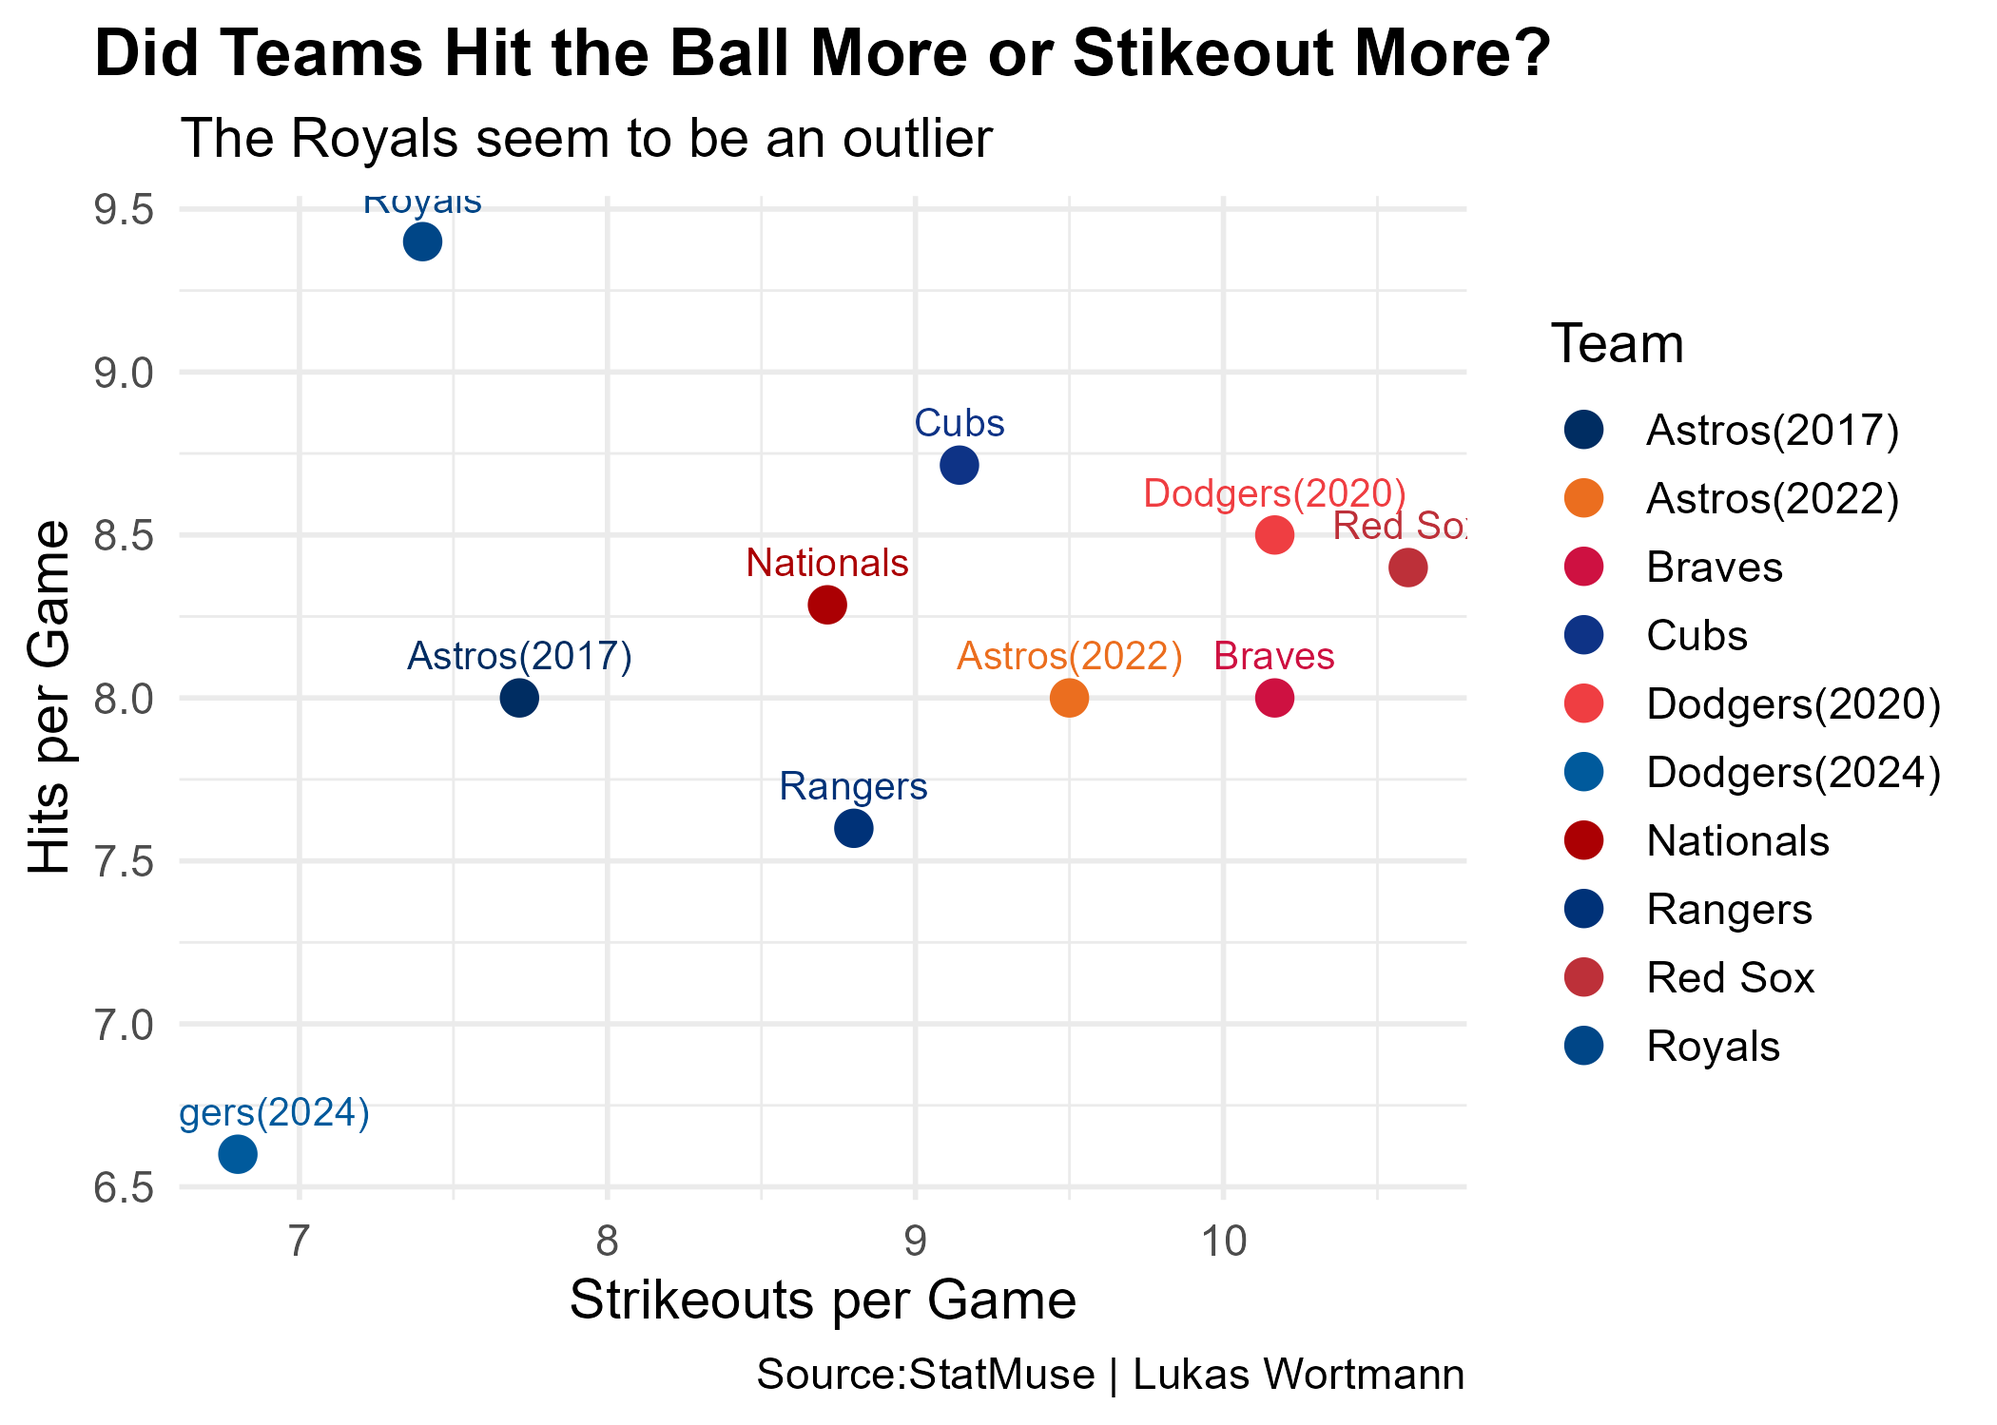
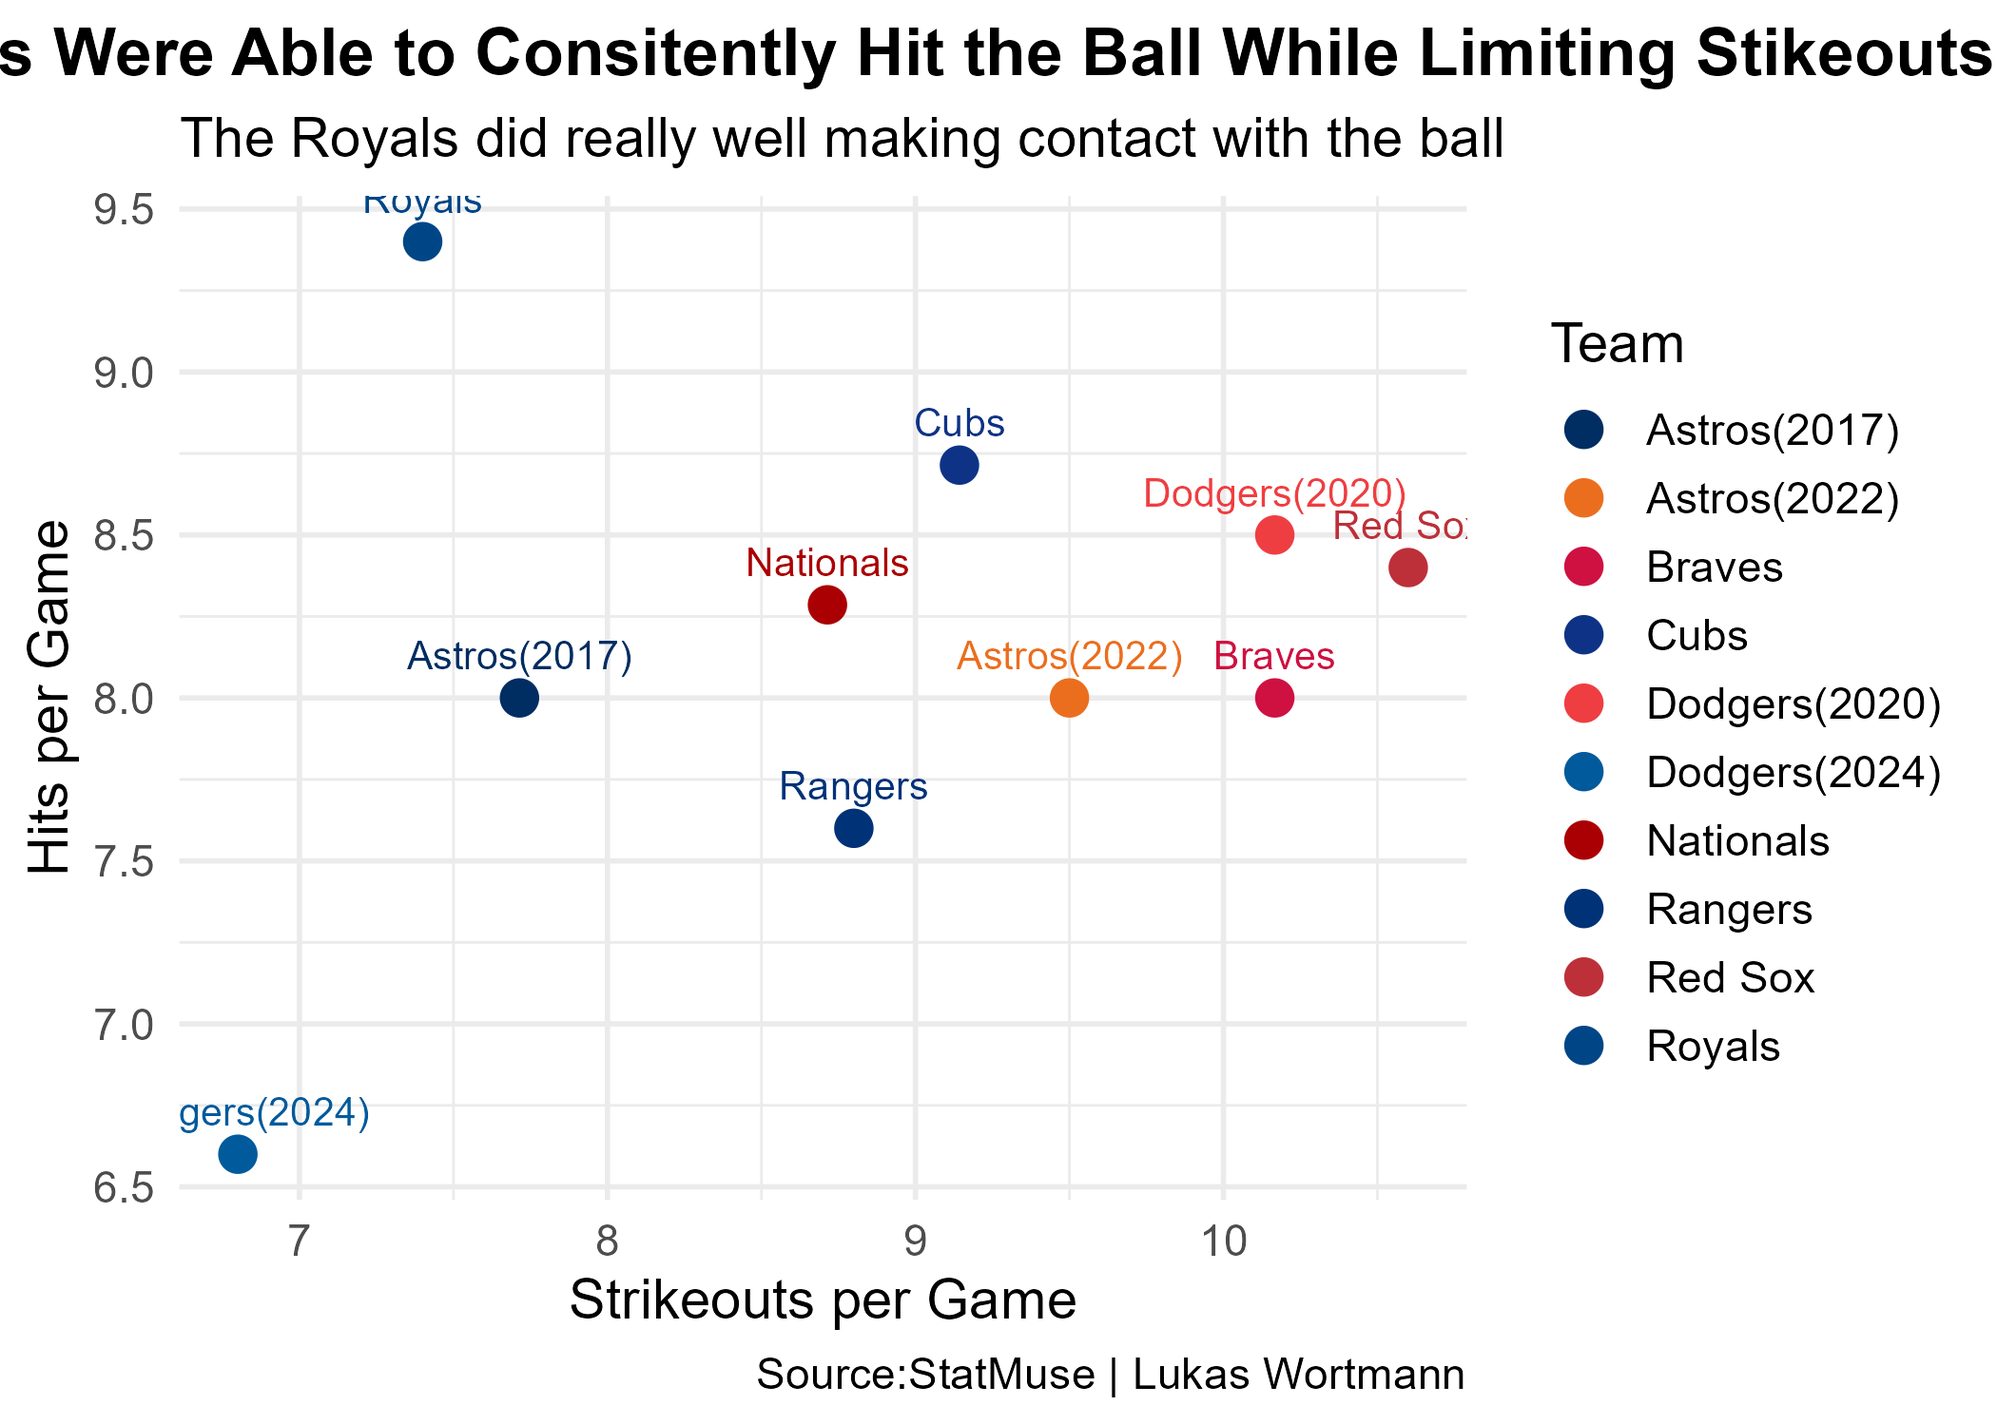
commit

Changed region(s): [[0.0, 0.0, 1.0, 0.1227]]

diff --git a/posts/worldserieswinners/index.html b/posts/worldserieswinners/index.html
@@ -9,7 +9,7 @@
 <meta name="author" content="Lukas Wortmann">
 <meta name="dcterms.date" content="2025-05-03">
 
-<title>Which Team had the best World Series Preformace? – Lukas’s sports blog</title>
+<title>Which of the last 10 Worlds Series Winner Had the Best Performace? – Lukas’s sports blog</title>
 <style>
 code{white-space: pre-wrap;}
 span.smallcaps{font-variant: small-caps;}
@@ -149,7 +149,7 @@ pre > code.sourceCode > span > a:first-child::before { text-decoration: underlin
 <header id="title-block-header" class="quarto-title-block default page-columns page-full">
   <div class="quarto-title-banner page-columns page-full">
     <div class="quarto-title column-body">
-      <h1 class="title">Which Team had the best World Series Preformace?</h1>
+      <h1 class="title">Which of the last 10 Worlds Series Winner Had the Best Performace?</h1>
                                 <div class="quarto-categories">
                 <div class="quarto-category">Baseball</div>
                 <div class="quarto-category">MLB</div>
@@ -192,6 +192,8 @@ pre > code.sourceCode > span > a:first-child::before { text-decoration: underlin
 
 
 
+<p>Baseball has been a sport that has been my favorite since forever. Growing up out of all of my favorite sports teams to this day the only team I have ever seen win a championship was the Kansas City Royals when they won the 2015 World Series. I have always asked my self what would happen if two champions from different years were to play each other? What would happen?</p>
+<p>This Blog is going to ask the question, Which of the last 10 World Series winners had the best Performance? We will start by asking which teams were able to hit the ball well but also were able to limit their amount of strikeouts?</p>
 <div class="cell">
 <details class="code-fold">
 <summary>Code</summary>
@@ -224,8 +226,8 @@ pre > code.sourceCode > span > a:first-child::before { text-decoration: underlin
 <span id="cb1-27"><a href="#cb1-27" aria-hidden="true" tabindex="-1"></a>  <span class="fu">scale_color_manual</span>(<span class="at">values =</span> team_colors) <span class="sc">+</span></span>
 <span id="cb1-28"><a href="#cb1-28" aria-hidden="true" tabindex="-1"></a>  <span class="fu">theme_minimal</span>(<span class="at">base_size =</span> <span class="dv">14</span>) <span class="sc">+</span></span>
 <span id="cb1-29"><a href="#cb1-29" aria-hidden="true" tabindex="-1"></a>  <span class="fu">labs</span>(</span>
-<span id="cb1-30"><a href="#cb1-30" aria-hidden="true" tabindex="-1"></a>    <span class="at">title =</span> <span class="st">"Did Teams Hit the Ball More or Stikeout More?"</span>,</span>
-<span id="cb1-31"><a href="#cb1-31" aria-hidden="true" tabindex="-1"></a>    <span class="at">subtitle =</span> <span class="st">"The Royals seem to be an outlier"</span>,</span>
+<span id="cb1-30"><a href="#cb1-30" aria-hidden="true" tabindex="-1"></a>    <span class="at">title =</span> <span class="st">"Which Teams Were Able to Consitently Hit the Ball While Limiting Stikeouts?"</span>,</span>
+<span id="cb1-31"><a href="#cb1-31" aria-hidden="true" tabindex="-1"></a>    <span class="at">subtitle =</span> <span class="st">"The Royals did really well making contact with the ball"</span>,</span>
 <span id="cb1-32"><a href="#cb1-32" aria-hidden="true" tabindex="-1"></a>    <span class="at">x =</span> <span class="st">"Strikeouts per Game"</span>,</span>
 <span id="cb1-33"><a href="#cb1-33" aria-hidden="true" tabindex="-1"></a>    <span class="at">y =</span> <span class="st">"Hits per Game"</span>,</span>
 <span id="cb1-34"><a href="#cb1-34" aria-hidden="true" tabindex="-1"></a>    <span class="at">caption =</span> <span class="st">"Source:StatMuse | Lukas Wortmann"</span>,</span>
@@ -244,6 +246,9 @@ pre > code.sourceCode > span > a:first-child::before { text-decoration: underlin
 </div>
 </div>
 </div>
+<p>Obviously you might know that the World Series is never the same every year. The series is a best of seven format so the same number of games are not going to be played every single year. So I decided to look at the average number of hits in each game and the average number of strikeouts each team had.</p>
+<p>There a couple things I will point out. The 2024 Dodgers team this past season had the lowest amount of strikeouts with 34. The 2015 Royals were close behind with 37, the difference with the Royals is that they were also able to hit the ball consistently. They connected on 47 base hits in just five games in the 2015 series against the New York Mets, averaging them at nearly 10 hits per game.</p>
+<p>We know teams were able to hit the ball, but were they able to cash in on runs when players were getting on base?</p>
 <div class="cell">
 <details class="code-fold">
 <summary>Code</summary>
@@ -253,20 +258,21 @@ pre > code.sourceCode > span > a:first-child::before { text-decoration: underlin
 <span id="cb2-4"><a href="#cb2-4" aria-hidden="true" tabindex="-1"></a>  <span class="fu">scale_color_manual</span>(<span class="at">values =</span> team_colors) <span class="sc">+</span></span>
 <span id="cb2-5"><a href="#cb2-5" aria-hidden="true" tabindex="-1"></a>  <span class="fu">theme_minimal</span>(<span class="at">base_size =</span> <span class="dv">14</span>) <span class="sc">+</span></span>
 <span id="cb2-6"><a href="#cb2-6" aria-hidden="true" tabindex="-1"></a>  <span class="fu">labs</span>(</span>
-<span id="cb2-7"><a href="#cb2-7" aria-hidden="true" tabindex="-1"></a>    <span class="at">title =</span> <span class="st">"OBP vs. Runs Scored – World Series Teams"</span>,</span>
-<span id="cb2-8"><a href="#cb2-8" aria-hidden="true" tabindex="-1"></a>    <span class="at">x =</span> <span class="st">"On-Base Percentage (OBP)"</span>,</span>
-<span id="cb2-9"><a href="#cb2-9" aria-hidden="true" tabindex="-1"></a>    <span class="at">y =</span> <span class="st">"Total Runs Scored"</span>,</span>
-<span id="cb2-10"><a href="#cb2-10" aria-hidden="true" tabindex="-1"></a>    <span class="at">caption =</span> <span class="st">"Source:StatMuse | Lukas Wortmann"</span>,</span>
-<span id="cb2-11"><a href="#cb2-11" aria-hidden="true" tabindex="-1"></a>    <span class="at">size =</span> <span class="st">"Games Played)"</span>,</span>
-<span id="cb2-12"><a href="#cb2-12" aria-hidden="true" tabindex="-1"></a>    <span class="at">color =</span> <span class="st">"Team"</span></span>
-<span id="cb2-13"><a href="#cb2-13" aria-hidden="true" tabindex="-1"></a>  ) <span class="sc">+</span></span>
-<span id="cb2-14"><a href="#cb2-14" aria-hidden="true" tabindex="-1"></a>  <span class="fu">theme</span>(</span>
-<span id="cb2-15"><a href="#cb2-15" aria-hidden="true" tabindex="-1"></a>    <span class="at">plot.title =</span> <span class="fu">element_text</span>(<span class="at">face =</span> <span class="st">"bold"</span>, <span class="at">size =</span> <span class="dv">16</span>, <span class="at">hjust =</span> <span class="fl">0.5</span>),</span>
-<span id="cb2-16"><a href="#cb2-16" aria-hidden="true" tabindex="-1"></a>    <span class="at">axis.title =</span> <span class="fu">element_text</span>(<span class="at">size =</span> <span class="dv">14</span>),</span>
-<span id="cb2-17"><a href="#cb2-17" aria-hidden="true" tabindex="-1"></a>    <span class="at">legend.title =</span> <span class="fu">element_text</span>(<span class="at">size =</span> <span class="dv">12</span>),</span>
-<span id="cb2-18"><a href="#cb2-18" aria-hidden="true" tabindex="-1"></a>    <span class="at">legend.text =</span> <span class="fu">element_text</span>(<span class="at">size =</span> <span class="dv">10</span>),</span>
-<span id="cb2-19"><a href="#cb2-19" aria-hidden="true" tabindex="-1"></a>    <span class="at">legend.position =</span> <span class="st">"right"</span></span>
-<span id="cb2-20"><a href="#cb2-20" aria-hidden="true" tabindex="-1"></a>  )</span></code><button title="Copy to Clipboard" class="code-copy-button"><i class="bi"></i></button></pre></div>
+<span id="cb2-7"><a href="#cb2-7" aria-hidden="true" tabindex="-1"></a>    <span class="at">title =</span> <span class="st">"Which Teams Succesfully got on Base and Cahsed in on Runs?"</span>,</span>
+<span id="cb2-8"><a href="#cb2-8" aria-hidden="true" tabindex="-1"></a>    <span class="at">subtitle =</span> <span class="st">"The 2017 Astros scored a lot of runs while not having the best OBP"</span>,</span>
+<span id="cb2-9"><a href="#cb2-9" aria-hidden="true" tabindex="-1"></a>    <span class="at">x =</span> <span class="st">"On-Base Percentage (OBP)"</span>,</span>
+<span id="cb2-10"><a href="#cb2-10" aria-hidden="true" tabindex="-1"></a>    <span class="at">y =</span> <span class="st">"Total Runs Scored"</span>,</span>
+<span id="cb2-11"><a href="#cb2-11" aria-hidden="true" tabindex="-1"></a>    <span class="at">caption =</span> <span class="st">"Source:StatMuse | Lukas Wortmann"</span>,</span>
+<span id="cb2-12"><a href="#cb2-12" aria-hidden="true" tabindex="-1"></a>    <span class="at">size =</span> <span class="st">"Games Played)"</span>,</span>
+<span id="cb2-13"><a href="#cb2-13" aria-hidden="true" tabindex="-1"></a>    <span class="at">color =</span> <span class="st">"Team"</span></span>
+<span id="cb2-14"><a href="#cb2-14" aria-hidden="true" tabindex="-1"></a>  ) <span class="sc">+</span></span>
+<span id="cb2-15"><a href="#cb2-15" aria-hidden="true" tabindex="-1"></a>  <span class="fu">theme</span>(</span>
+<span id="cb2-16"><a href="#cb2-16" aria-hidden="true" tabindex="-1"></a>    <span class="at">plot.title =</span> <span class="fu">element_text</span>(<span class="at">face =</span> <span class="st">"bold"</span>, <span class="at">size =</span> <span class="dv">16</span>, <span class="at">hjust =</span> <span class="fl">0.5</span>),</span>
+<span id="cb2-17"><a href="#cb2-17" aria-hidden="true" tabindex="-1"></a>    <span class="at">axis.title =</span> <span class="fu">element_text</span>(<span class="at">size =</span> <span class="dv">14</span>),</span>
+<span id="cb2-18"><a href="#cb2-18" aria-hidden="true" tabindex="-1"></a>    <span class="at">legend.title =</span> <span class="fu">element_text</span>(<span class="at">size =</span> <span class="dv">12</span>),</span>
+<span id="cb2-19"><a href="#cb2-19" aria-hidden="true" tabindex="-1"></a>    <span class="at">legend.text =</span> <span class="fu">element_text</span>(<span class="at">size =</span> <span class="dv">10</span>),</span>
+<span id="cb2-20"><a href="#cb2-20" aria-hidden="true" tabindex="-1"></a>    <span class="at">legend.position =</span> <span class="st">"right"</span></span>
+<span id="cb2-21"><a href="#cb2-21" aria-hidden="true" tabindex="-1"></a>  )</span></code><button title="Copy to Clipboard" class="code-copy-button"><i class="bi"></i></button></pre></div>
 </details>
 <div class="cell-output-display">
 <div>
@@ -276,12 +282,15 @@ pre > code.sourceCode > span > a:first-child::before { text-decoration: underlin
 </div>
 </div>
 </div>
+<p>The Dodgers in 2020 series had an outstanding .336 on base percentage and they are well above the rest of the teams in the pack. They were also able to cash in on upwards of 30 runs that year as well which is pretty impressive.</p>
+<p>One thing that stands out to me is the difference in the amount of runs the Astros scored in their two World Series victories on this list. Everyone has there opinions on the cheating scandal they were involved in that year and obviously it is two different teams and years but it is still something to look at. The 2017 team is first in runs while the 2022 squad is last?</p>
+<p>Now lets take a look at how well teams played throughout the entirety of October in the Playoffs? Who stayed consistent?</p>
 <div class="cell">
 <details class="code-fold">
 <summary>Code</summary>
 <div class="sourceCode cell-code" id="cb3"><pre class="sourceCode r code-with-copy"><code class="sourceCode r"><span id="cb3-1"><a href="#cb3-1" aria-hidden="true" tabindex="-1"></a><span class="fu">ggplot</span>(WSstats, <span class="fu">aes</span>(<span class="at">y =</span> <span class="fu">reorder</span>(Team, WSAVG), <span class="at">x =</span> WSAVG, <span class="at">xend =</span> PlayoffAVG)) <span class="sc">+</span></span>
 <span id="cb3-2"><a href="#cb3-2" aria-hidden="true" tabindex="-1"></a>  <span class="fu">geom_dumbbell</span>(</span>
-<span id="cb3-3"><a href="#cb3-3" aria-hidden="true" tabindex="-1"></a>    <span class="at">size =</span> <span class="dv">3</span>,</span>
+<span id="cb3-3"><a href="#cb3-3" aria-hidden="true" tabindex="-1"></a>    <span class="at">size =</span> <span class="dv">2</span>,</span>
 <span id="cb3-4"><a href="#cb3-4" aria-hidden="true" tabindex="-1"></a>    <span class="at">size_x =</span> <span class="dv">6</span>,</span>
 <span id="cb3-5"><a href="#cb3-5" aria-hidden="true" tabindex="-1"></a>    <span class="at">size_xend =</span> <span class="dv">6</span>,</span>
 <span id="cb3-6"><a href="#cb3-6" aria-hidden="true" tabindex="-1"></a>    <span class="at">colour =</span> <span class="st">"darkgrey"</span>,</span>
@@ -290,7 +299,7 @@ pre > code.sourceCode > span > a:first-child::before { text-decoration: underlin
 <span id="cb3-9"><a href="#cb3-9" aria-hidden="true" tabindex="-1"></a>  ) <span class="sc">+</span></span>
 <span id="cb3-10"><a href="#cb3-10" aria-hidden="true" tabindex="-1"></a>  <span class="fu">theme_minimal</span>(<span class="at">base_size =</span> <span class="dv">14</span>) <span class="sc">+</span></span>
 <span id="cb3-11"><a href="#cb3-11" aria-hidden="true" tabindex="-1"></a>  <span class="fu">labs</span>(</span>
-<span id="cb3-12"><a href="#cb3-12" aria-hidden="true" tabindex="-1"></a>    <span class="at">title =</span> <span class="st">"World Series vs. Playoff Batting Averages"</span>,</span>
+<span id="cb3-12"><a href="#cb3-12" aria-hidden="true" tabindex="-1"></a>    <span class="at">title =</span> <span class="st">"Did Teams Keep up Their Success Throughout the Playoffs?"</span>,</span>
 <span id="cb3-13"><a href="#cb3-13" aria-hidden="true" tabindex="-1"></a>    <span class="at">subtitle =</span> <span class="st">"&lt;span style='color:Green;'&gt;Green&lt;/span&gt; = World Series Average | &lt;span style='color:Red;'&gt;Red&lt;/span&gt; = Playoff Average"</span>,</span>
 <span id="cb3-14"><a href="#cb3-14" aria-hidden="true" tabindex="-1"></a>    <span class="at">x =</span> <span class="st">"Batting Average"</span>,</span>
 <span id="cb3-15"><a href="#cb3-15" aria-hidden="true" tabindex="-1"></a>    <span class="at">caption =</span> <span class="st">"Source:StatMuse | Lukas Wortmann"</span>,</span>
@@ -317,7 +326,8 @@ pre > code.sourceCode > span > a:first-child::before { text-decoration: underlin
 </div>
 </div>
 </div>
-<p>```</p>
+<p>The Cubs are one team that stands out in this dumbbell chart because the way they were able improve their batting average in the World Series. They are one of the few teams that even had a higher batting average than the entire playoffs so they make themselves look pretty good here.</p>
+<p>There’s no really say in who would win a match up if any of these Champions were to face each other but there are definitely a select few teams that standout, it would be interesting to throw all of these teams into a hypothetical playoffs and see who comes out on top but it always something interesting to look at and see how much the league is advancing and getting better over the years.</p>
 
 
 

diff --git a/index.html b/index.html
@@ -205,7 +205,7 @@ window.Quarto = {
 
 <div class="quarto-listing quarto-listing-container-default" id="listing-listing">
 <div class="list quarto-listing-default">
-<div class="quarto-post image-right" data-index="0" data-categories="Baseball,MLB,World Seires,Champions,Rings" data-listing-date-sort="1746248400000" data-listing-file-modified-sort="1746388190781" data-listing-date-modified-sort="NaN" data-listing-reading-time-sort="3" data-listing-word-count-sort="500">
+<div class="quarto-post image-right" data-index="0" data-categories="Baseball,MLB,World Seires,Champions,Rings" data-listing-date-sort="1746248400000" data-listing-file-modified-sort="1746392047843" data-listing-date-modified-sort="NaN" data-listing-reading-time-sort="6" data-listing-word-count-sort="1060">
 <div class="thumbnail">
 <p><a href="./posts/worldserieswinners/index.html" class="no-external"></a></p><a href="./posts/worldserieswinners/index.html" class="no-external">
 <p><img loading="lazy" src="./posts/worldserieswinners/image.png" class="thumbnail-image"></p>
@@ -213,7 +213,7 @@ window.Quarto = {
 </div>
 <div class="body">
 <h3 class="no-anchor listing-title">
-<a href="./posts/worldserieswinners/index.html" class="no-external">Which Team had the best World Series Preformace?</a>
+<a href="./posts/worldserieswinners/index.html" class="no-external">Which of the last 10 Worlds Series Winner Had the Best Performace?</a>
 </h3>
 <div class="listing-subtitle">
 <a href="./posts/worldserieswinners/index.html" class="no-external"></a>
@@ -236,7 +236,7 @@ Rings
 </div>
 </div>
 <div class="listing-description">
-<a href="./posts/worldserieswinners/index.html" class="no-external">```</a>
+<a href="./posts/worldserieswinners/index.html" class="no-external">Baseball has been a sport that has been my favorite since forever. Growing up out of all of my favorite sports teams to this day the only team I have ever seen win a…</a>
 </div>
 </div>
 <div class="metadata">
